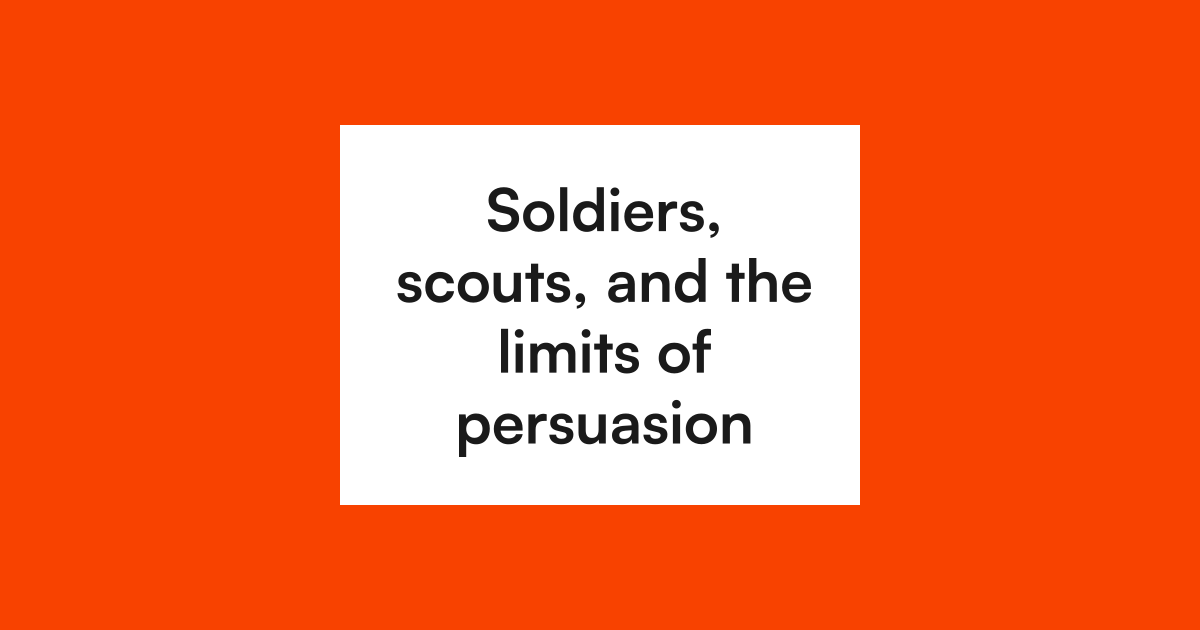
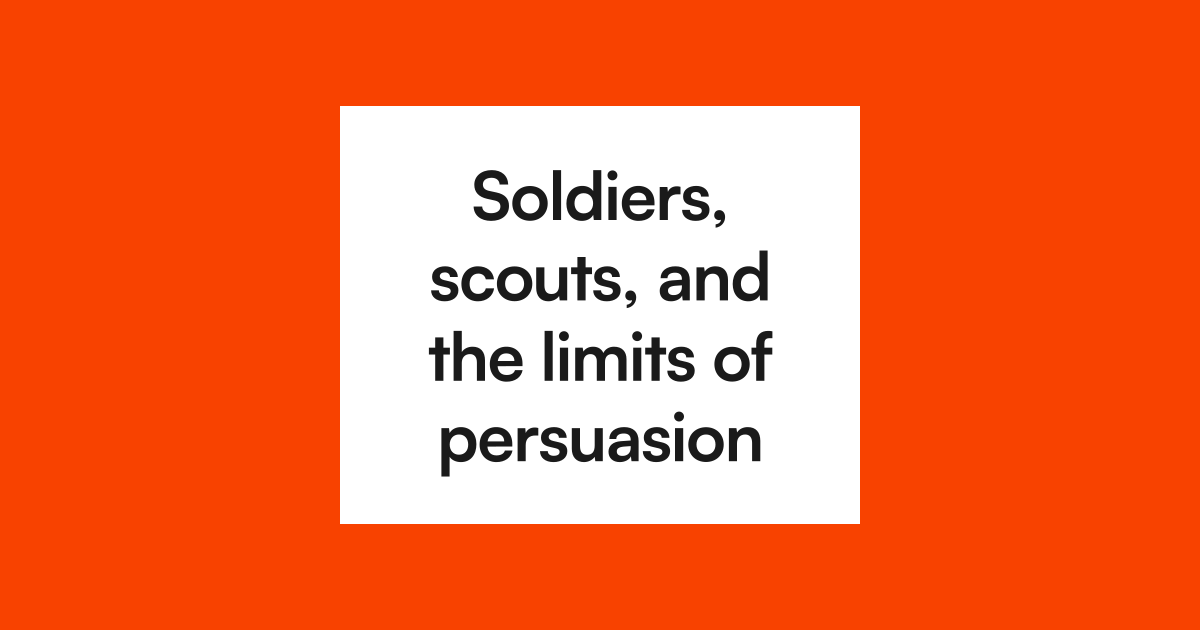
Improve OG image readability with larger font and tighter kerning
- Increase font size range from 72-52px to 80-60px
- Add -0.02em letter-spacing for tighter kerning
- Regenerate all essay OG images

diff --git a/scripts/generate-og-images.js b/scripts/generate-og-images.js
@@ -43,12 +43,12 @@ async function generateOGImage(title, outputPath, format = 'landscape') {
     ? { width: 1200, height: 1200 }
     : { width: 1200, height: 630 };
 
-  // Font sizing - slightly smaller to fit in centered panel
+  // Font sizing - maximize for landscape while fitting in panel
   const fontSize = isSquare
     ? calculateSquareFontSize(title)
-    : calculateFontSize(title, 72, 52, 60);
+    : calculateFontSize(title, 80, 60, 60);
 
-  // White panel dimensions - centered, fits in any crop
+  // White panel dimensions - centered, survives square crop with 55px orange margin
   const panelWidth = 520;
   const panelPadding = 48;
 
@@ -85,6 +85,7 @@ async function generateOGImage(title, outputPath, format = 'landscape') {
                     fontSize: `${fontSize}px`,
                     fontWeight: 700,
                     lineHeight: 1.2,
+                    letterSpacing: '-0.02em',
                     color: '#1a1a1a',
                     fontFamily: 'Satoshi',
                     textAlign: 'center',
